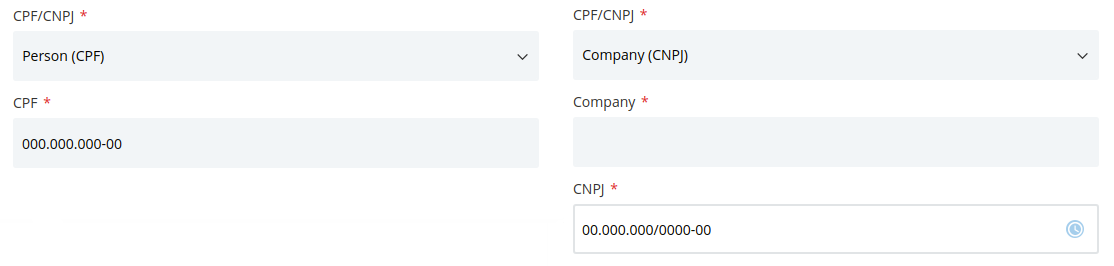
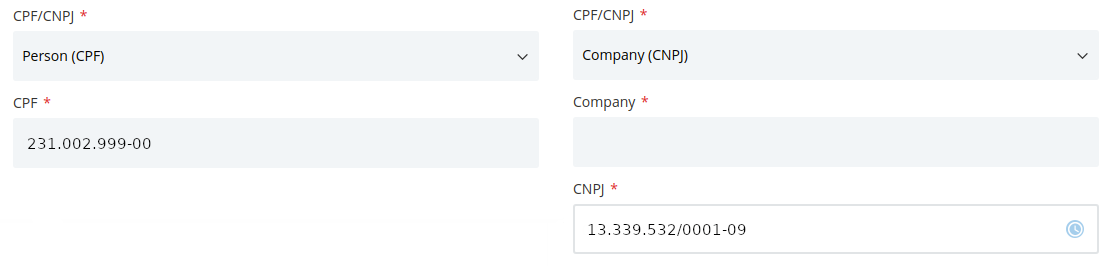
Validation cpg/cnpj code on incorrect numbers. Images modification.

Changed region(s): [[0.5189, 0.8421, 0.6715, 0.9023], [0.0, 0.5113, 0.1526, 0.5714]]

diff --git a/m2/extensions/firecheckout/brazil/cpf-cnpj.md b/m2/extensions/firecheckout/brazil/cpf-cnpj.md
@@ -44,9 +44,10 @@ magento field "vat_id" and the firecheckout module.
     ], function ($, _, label, dependency, mask, validator, watcher) {
         'use strict';
 
+        //define address form in which need to use the CPF/CNPJ code
         var scopes = [
-            '.form-shipping-address', //define address form in which need to use the CPF/CNPJ code
-            '.payment-method._active'
+            '.form-shipping-address',
+            '.checkout-billing-address'
 
         ];
 
@@ -54,7 +55,7 @@ magento field "vat_id" and the firecheckout module.
             dependency({
                 scope: scope,
                 watch: {
-                    '[name="custom_attributes[person_company]"]': '218' // change this value according to your options
+                    '[name="custom_attributes[person_company]"]': 'NUM2' // change this value according to your options
                 },
                 react: {
                     '[name="company"]': 'required|hidden', // the field 'Company' will be hidden when choose "Person" code.
@@ -71,7 +72,7 @@ magento field "vat_id" and the firecheckout module.
 
                     var mask = [/\d/, /\d/,'.',/\d/,/\d/,/\d/,'.',/\d/,/\d/,/\d/,'/',/\d/,/\d/,/\d/,/\d/,'-',/\d/,/\d/];
 
-                    if ($(scope + ' [name="custom_attributes[person_company]"]').val() == 217) {
+                    if ($(scope + ' [name="custom_attributes[person_company]"]').val() == NUM1) {
                         mask = [/\d/, /\d/, /\d/,'.',/\d/,/\d/,/\d/,'.',/\d/,/\d/,/\d/,'-',/\d/,/\d/];
                     }
 
@@ -92,7 +93,7 @@ magento field "vat_id" and the firecheckout module.
                     el.data('fc-mask').textMaskInputElement.update();
                 }
 
-                if ($(scope + ' [name="custom_attributes[person_company]"]').val() == 218) {
+                if ($(scope + ' [name="custom_attributes[person_company]"]').val() == NUM2) {
                     label(el, 'CNPJ');
                 } else {
                     label(el, 'CPF');
@@ -104,11 +105,36 @@ magento field "vat_id" and the firecheckout module.
             validator('[name="vat_id"]', {
                 'lazy': true,
                 'fc-custom-rule-vatid': {
-                    handler: function (value) {
-                        if ($(scope + ' [name="custom_attributes[person_company]"]').val() == 218) {
-                            return new RegExp(/^([0-9]{2}(.)[0-9]{3}(.)[0-9]{3}(\/)[0-9]{4}(-)[0-9]{2})$/).test(value);
+                        handler: function (value) {
+                        var spNumbers,
+                            unico = true;
+                            spNumbers = value.split(/[\/\.-]/);
+
+                        if ($(scope + ' [name="custom_attributes[cpf_cnpj]"]').val() == NUM2) {
+                            var cnpj = new RegExp(/^([0-9]{2}(.)[0-9]{3}(.)[0-9]{3}(\/)[0-9]{4}(-)[0-9]{2})$/).test(value);
+
+                            //validation cnpj code on incorrect numbers 00.000.000/0000
+                            if (cnpj && unico) {
+
+                                for (var i=0; i<spNumbers.length; i++){
+                                   unico = (spNumbers[1] == spNumbers[2] && spNumbers[1] == spNumbers[3].slice(1,4));
+                                }
+                                return (!unico);
+                            }
+
+                            return cnpj;
                         } else {
-                            return new RegExp(/^([0-9]{3}(.)[0-9]{3}(.)[0-9]{3}(-)[0-9]{2})$/).test(value);
+                            var cpf = new RegExp(/^([0-9]{3}(.)[0-9]{3}(.)[0-9]{3}(-)[0-9]{2})$/).test(value);
+
+                            //validation cpf code on incorrect numbers 000.000.000
+                            if (cpf && unico) {
+
+                                for (var i=0; i<spNumbers.length; i++){
+                                    unico = (spNumbers[0] == spNumbers[1] && spNumbers[0] == spNumbers[2]);
+                                }
+                                return (!unico);
+                            }
+                            return cpf;
                         }
                     },
                     message: $t('Invalid vat ID ')
